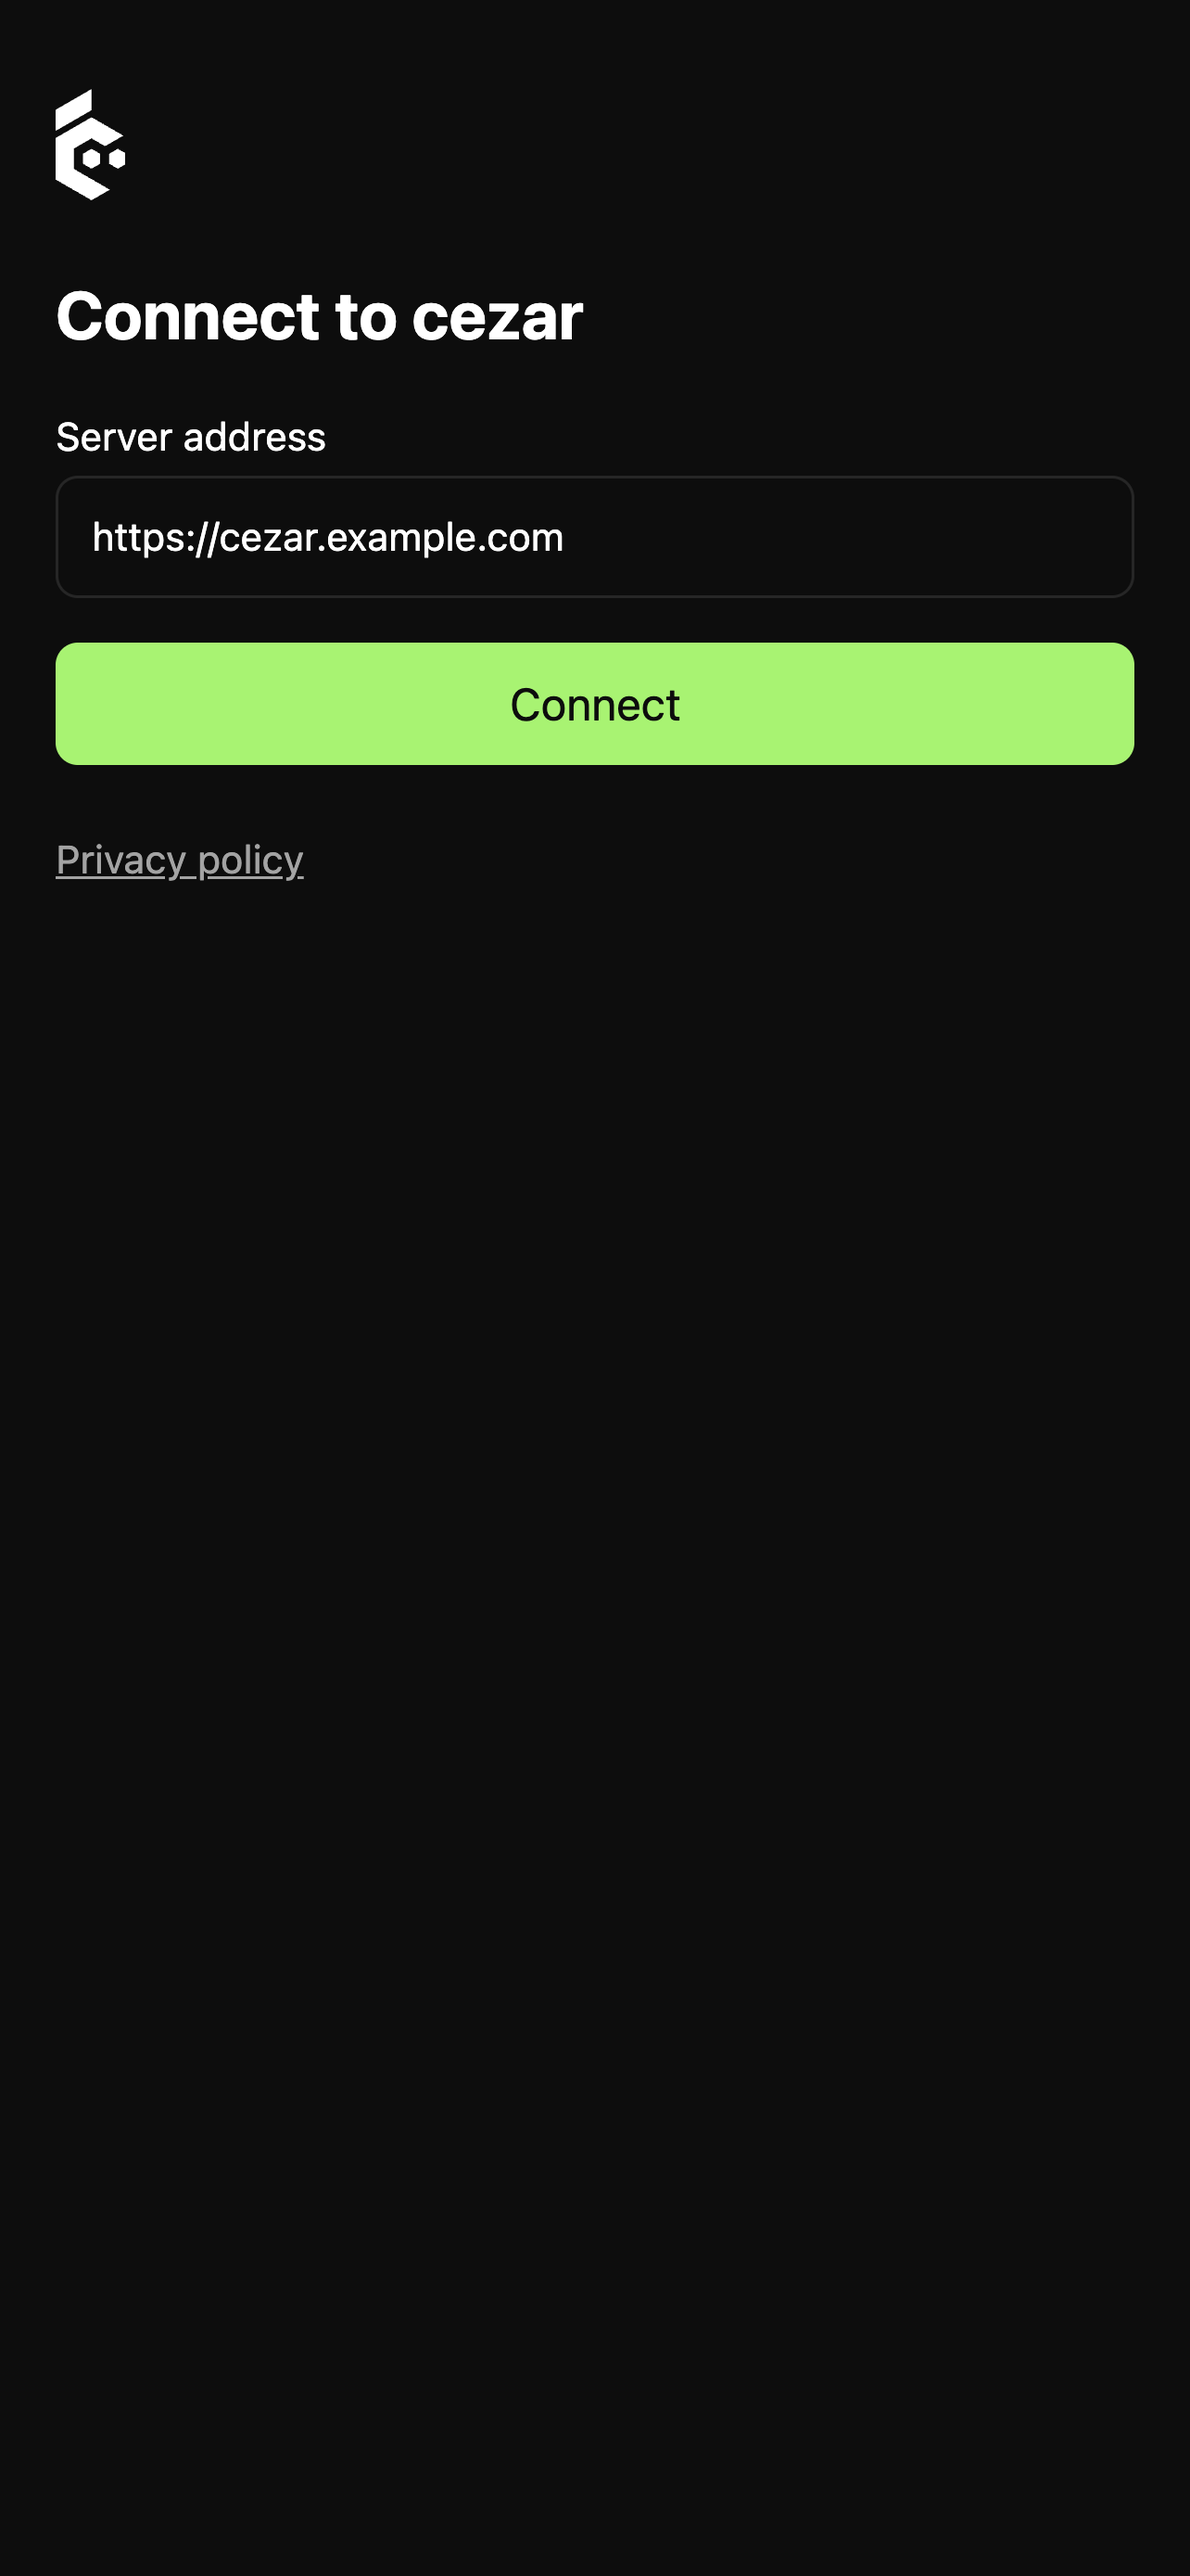
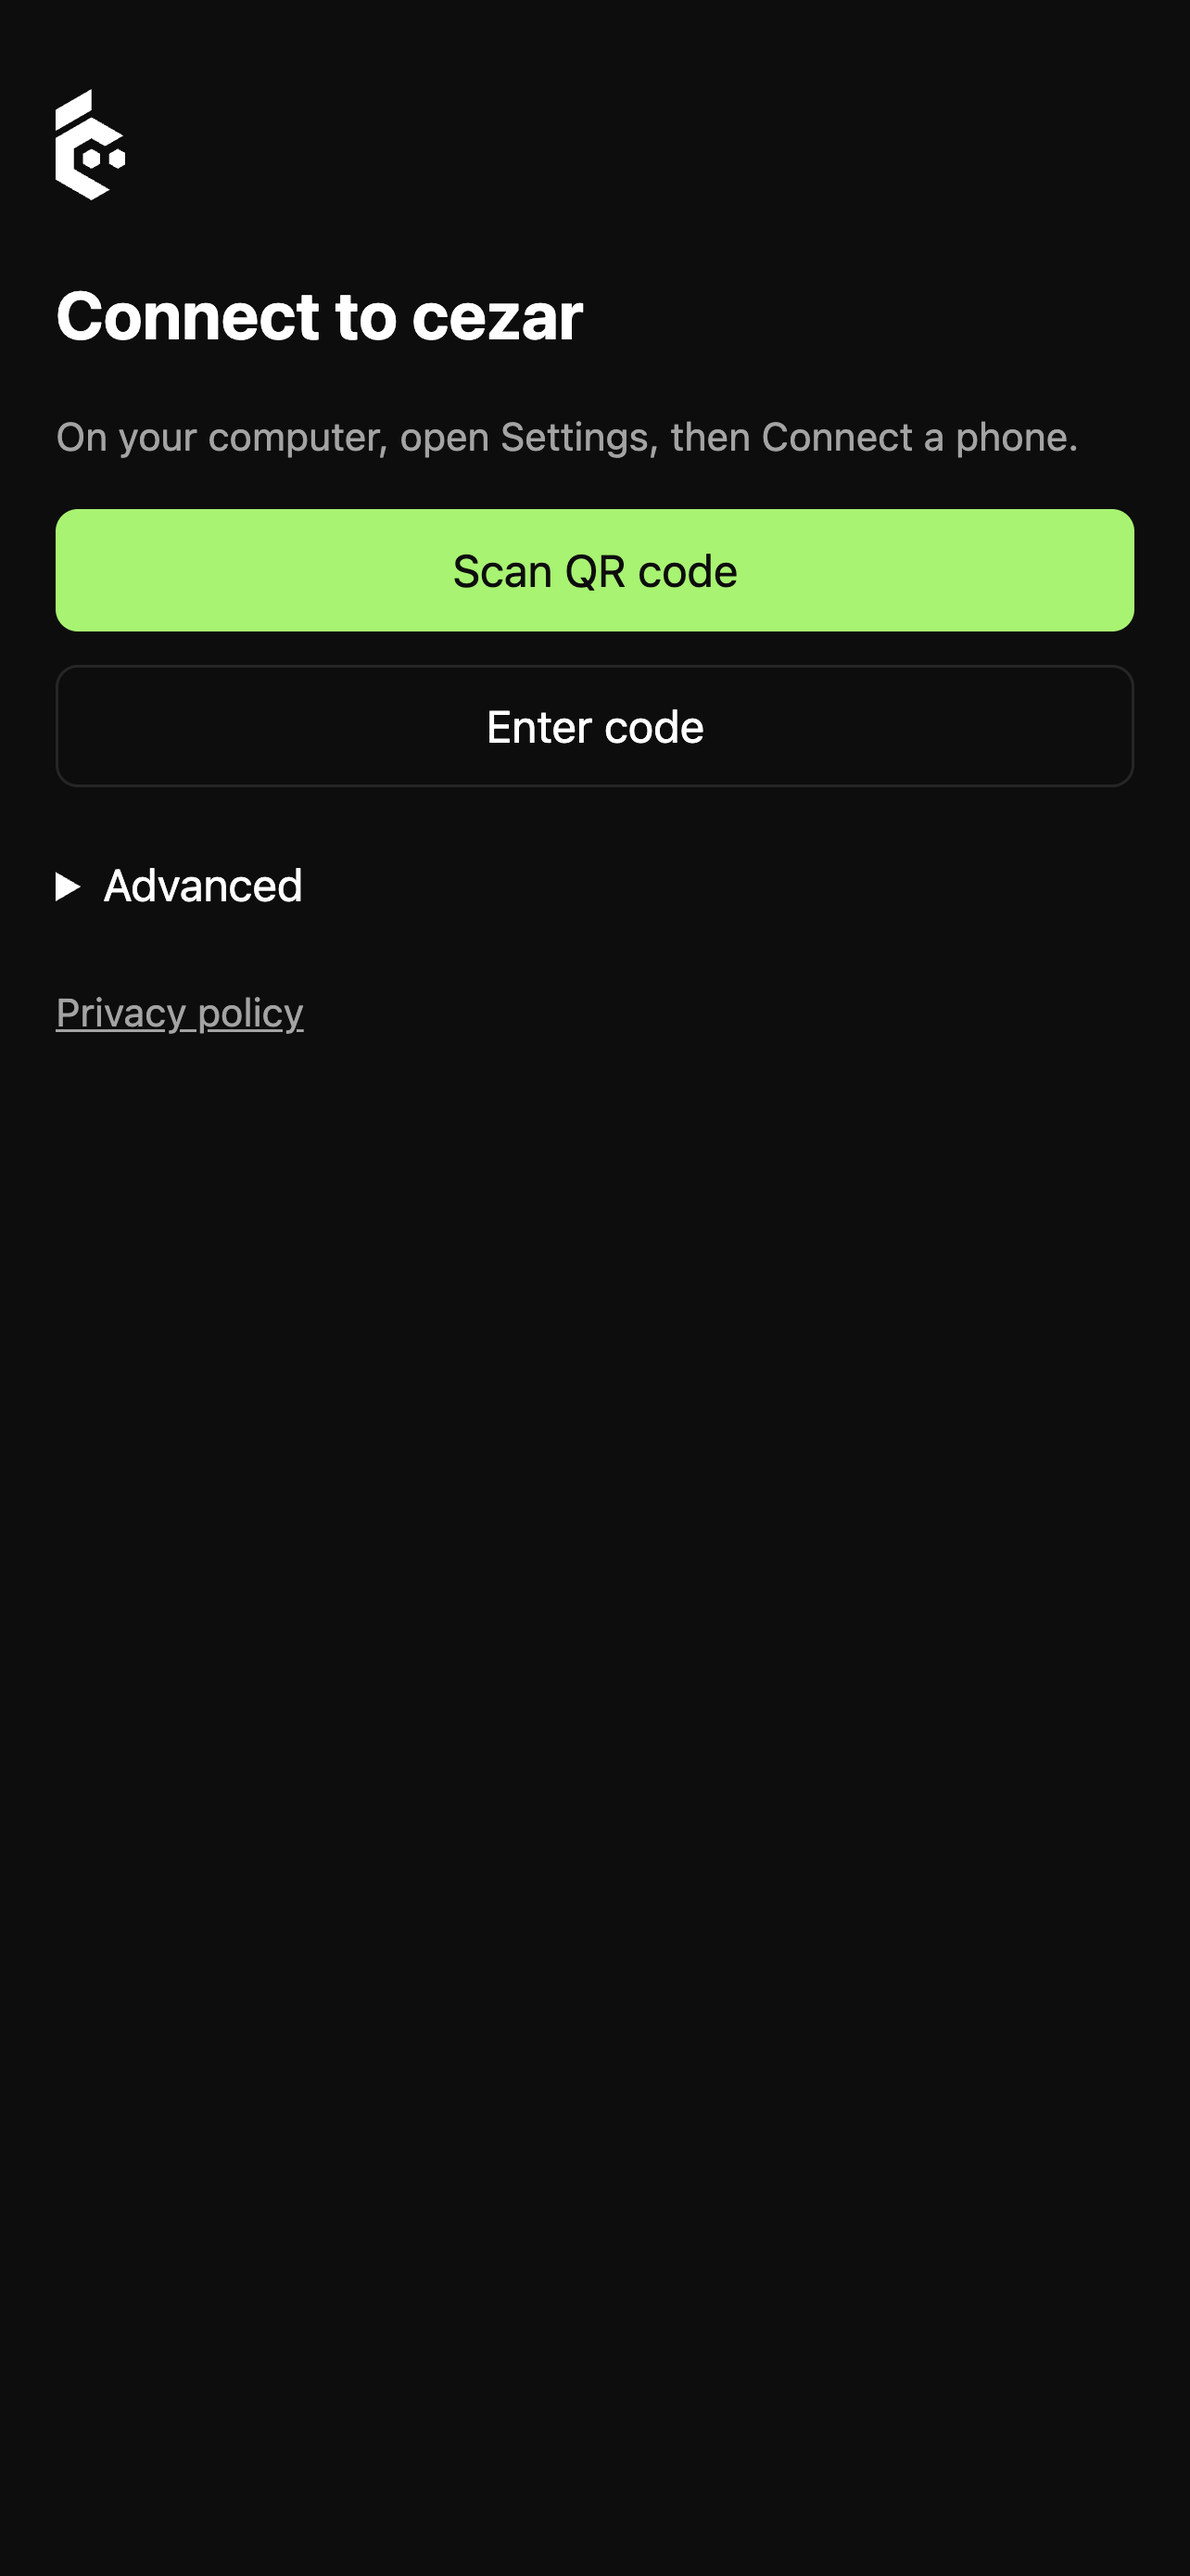
feat(mobile): iOS push entitlement, privacy manifest Device ID, iOS pairing in store assets

Changed region(s): [[0.0312, 0.1548, 0.9657, 0.4024], [0.0312, 0.3405, 0.0623, 0.3715]]

diff --git a/packages/mobile/connect/connect.js b/packages/mobile/connect/connect.js
@@ -10,7 +10,7 @@ let context = {};
 let cameFrom = null;
 // What Back does on the screen drawn now: the arrow, Android's Back and iOS's edge swipe all call it.
 let back = null;
-// Android only for now. iOS keeps the URL form until its client compiles.
+// Native reports it: true once the app has a relay client.
 let pairing = false;
 let lock = null;
 let relayDefault;

diff --git a/packages/mobile/README.md b/packages/mobile/README.md
@@ -144,7 +144,7 @@ is requested, while the switch and Stage 1 work as above. For Stage 2, a maintai
 3. Downloads its `google-services.json` into `packages/mobile/android/app/`. It is not a secret, but
    it is gitignored: do not commit it until Open Mercato owns the Firebase project. The build applies
    the google-services plugin only when the file exists.
-4. Gives the relay (`patzick/rome`) a service account key from the **same** Firebase project:
+4. Gives the relay (`open-mercato/rome`) a service account key from the **same** Firebase project:
    Project settings → Service accounts → Generate new private key, then
    `npx wrangler secret put FCM_SERVICE_ACCOUNT_JSON < key.json`. The relay also needs
    `GRANT_SEAL_KEY`, which seals the grants. Delete the downloaded key file afterwards.
@@ -174,10 +174,10 @@ Where it differs from Android:
 - **URLSession always offers `permessage-deflate`.** It cannot be removed, so the header is sent
   empty and a `101` naming any extension is refused (§ 3). It cannot read a refused upgrade's body, so a
   `503` falls back to `Retry-After` or jitter.
-- **Push** is APNs. Without the Push Notifications capability registration fails and push stays
-  off: Stage 1 still works. To turn Stage 2 on, add the capability in Xcode (it writes
-  `aps-environment` to an entitlements file), and give the relay an APNs key for the bundle ID
-  `com.openmercato.cezar.mobile`. The relay's payload carries `s` at the top level, beside `aps`.
+- **Push** is APNs. `App/App.entitlements` asks for `aps-environment`, so the App ID needs the Push
+  Notifications capability; if registration still fails, push stays off and Stage 1 still works. Stage 2
+  needs an APNs key at the relay for the bundle ID `com.openmercato.cezar.mobile`. The app reads `s`
+  at the top level of the payload, beside `aps`, so the relay must send it there.
 - No debug pairing route yet: pair with the camera, or type the code.
 
 ## Icons and splash

diff --git a/packages/mobile/store/screenshots/README.md b/packages/mobile/store/screenshots/README.md
@@ -11,9 +11,9 @@ node packages/mobile/store/scripts/screenshots.mjs --only graphics,connect --con
 ```
 
 The connect scenes need the relay pairing screens, so run them from the top of the mobile stack, or
-pass `--connect` a `packages/mobile/connect` directory that has them (`--ios-pairing` also shows them
-on iOS, once the iOS app can pair). The cockpit scenes boot this repo's cezar with `CEZ_DRY_RUN=1` in
-a throwaway `HOME` and `CEZ_HOME`, seed a demo shop project and a manager, and stop it afterwards.
+pass `--connect` a `packages/mobile/connect` directory that has them; both platforms show pairing. The
+cockpit scenes boot this repo's cezar with `CEZ_DRY_RUN=1` in a throwaway `HOME` and `CEZ_HOME`, seed a
+demo shop project and a manager, and stop it afterwards.
 
 | Set | Pixels | Store slot |
 | --- | --- | --- |
@@ -30,7 +30,7 @@ a throwaway `HOME` and `CEZ_HOME`, seed a demo shop project and a manager, and s
 | `02-task-live` | A running task's live chat |
 | `03-manager` | The Manager answering "what needs me" |
 | `04-connect` | The connect screen |
-| `05-pair-code` (Android) / `05-sign-in` (iOS) | Typing a pairing code / signing in to a direct server |
+| `05-pair-code` | Typing a pairing code |
 | `06-servers` | The server list with notifications and the app lock |
 
-The Android `06-servers` shows the default relay address, `rome.cezar.run`; retake it if that changes.
+`06-servers` shows the default relay address, `rome.cezar.run`; retake it if that changes.

diff --git a/packages/mobile/store/data-safety.md b/packages/mobile/store/data-safety.md
@@ -67,10 +67,11 @@ used to track across apps or websites, and the app never shows the App Tracking 
 
 Before the first iOS submission:
 
-- These answers describe Android. iOS has no relay client or push until the iOS half of #1901
-  lands; re-read its code and redo this table for the build you submit.
+- On iOS the Device ID row is the relay device ID, public keys and the APNs token; there is no
+  Firebase. Re-read the iOS code against this table for the build you submit.
 - Apple's privacy manifest is `ios/App/App/PrivacyInfo.xcprivacy`: no tracking, no tracking domains,
-  and `UserDefaults` for the app's own flags (reason `CA92.1`). Its collected data types must match the
+  Device ID collected for app functionality, not linked and not tracking, and `UserDefaults` for the
+  app's own flags (reason `CA92.1`). Its collected data types must match the
   table above; re-read it, and the manifest of any SDK the build adds, before each submission.
 - **Export compliance** (asked for every build, or set `ITSAppUsesNonExemptEncryption` in
   `Info.plist`): the app implements end-to-end encryption with standard algorithms (Noise with

diff --git a/RELEASING-MOBILE.md b/RELEASING-MOBILE.md
@@ -123,8 +123,8 @@ be updated by one. Say that wherever the APK is linked. Publish the draft GitHub
 ## 3. iOS, once
 
 1. **Identifier**: https://developer.apple.com/account/resources/identifiers > **+** > App IDs > App,
-   explicit bundle ID `com.openmercato.cezar.mobile`, description `cezar`. Tick **Push Notifications**
-   when iOS push lands.
+   explicit bundle ID `com.openmercato.cezar.mobile`, description `cezar`. Tick **Push Notifications**:
+   the app's `App.entitlements` asks for `aps-environment`, and signing fails without it.
 2. **App record**: App Store Connect > **Apps > + > New App**: iOS, name `cezar` (if taken, `cezar:
    coding agents`), primary language English (U.S.), the bundle ID above, SKU `cezar-mobile`, full
    access.

diff --git a/packages/mobile/store/listing.md b/packages/mobile/store/listing.md
@@ -90,5 +90,4 @@ First release: pair with cezar by QR code or typed code, connect directly to a h
 - Notifications while the app is closed need Firebase on Android (`GOOGLE_SERVICES_JSON`) and push on
   iOS. If a build ships without them, change "the phone tells you" to "the app tells you while it is
   open", or Apple's guideline 2.3.1 (accurate metadata) applies.
-- The iOS app has no relay client until #1901's iOS half lands. Do not submit this text for an iOS
-  build that cannot pair by QR code.
+- Both apps pair by QR code. Do not submit this text for a build that cannot.

diff --git a/packages/mobile/store/reviewer-notes.md b/packages/mobile/store/reviewer-notes.md
@@ -20,8 +20,7 @@ by `packages/mobile/demo/` (README there). Before pasting, replace `cezar-demo.e
 
 ## The notes text
 
-Delete the "Optional: pairing" part if the build has no relay client (iOS until #1901's iOS half
-lands) or the demo runs with `DEMO_RELAY=0`.
+Delete the "Optional: pairing" part if the demo runs with `DEMO_RELAY=0`.
 
 <!-- reviewer-notes -->
 ```text
